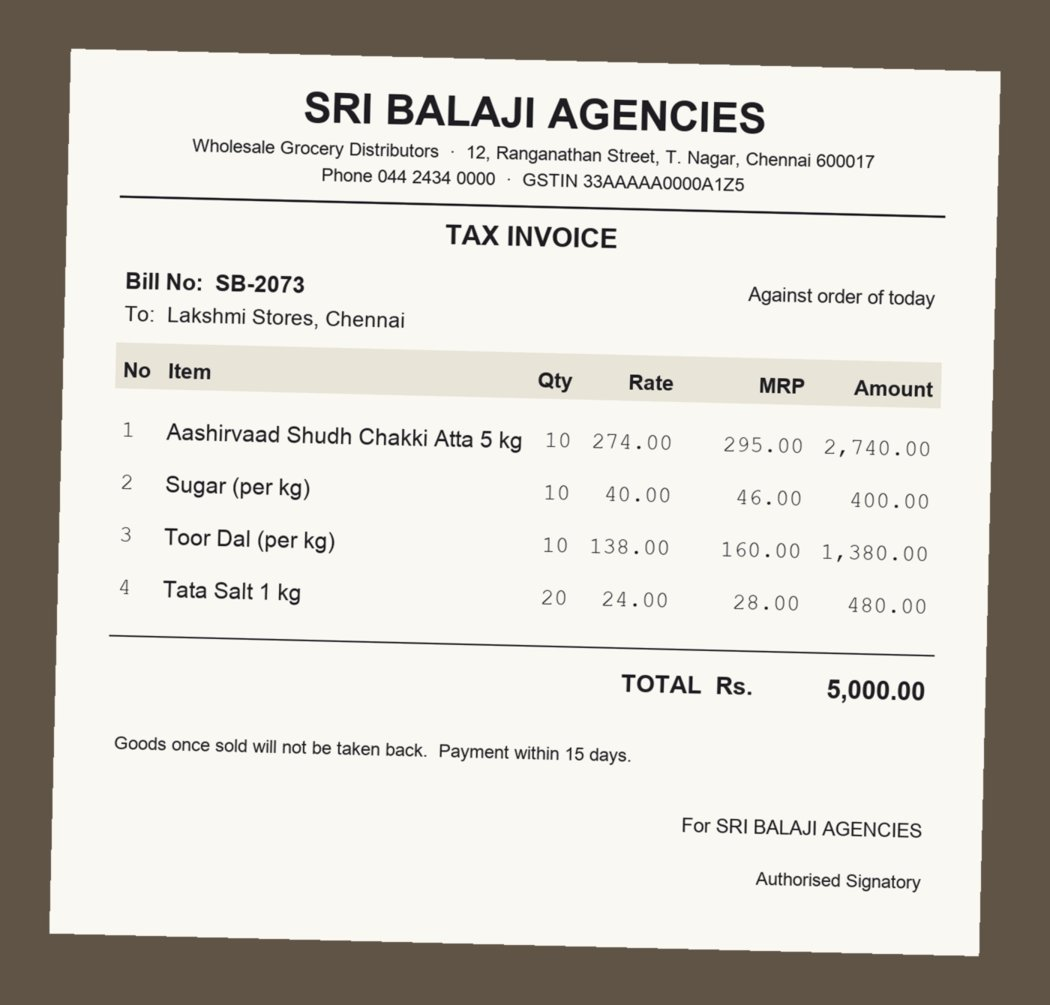
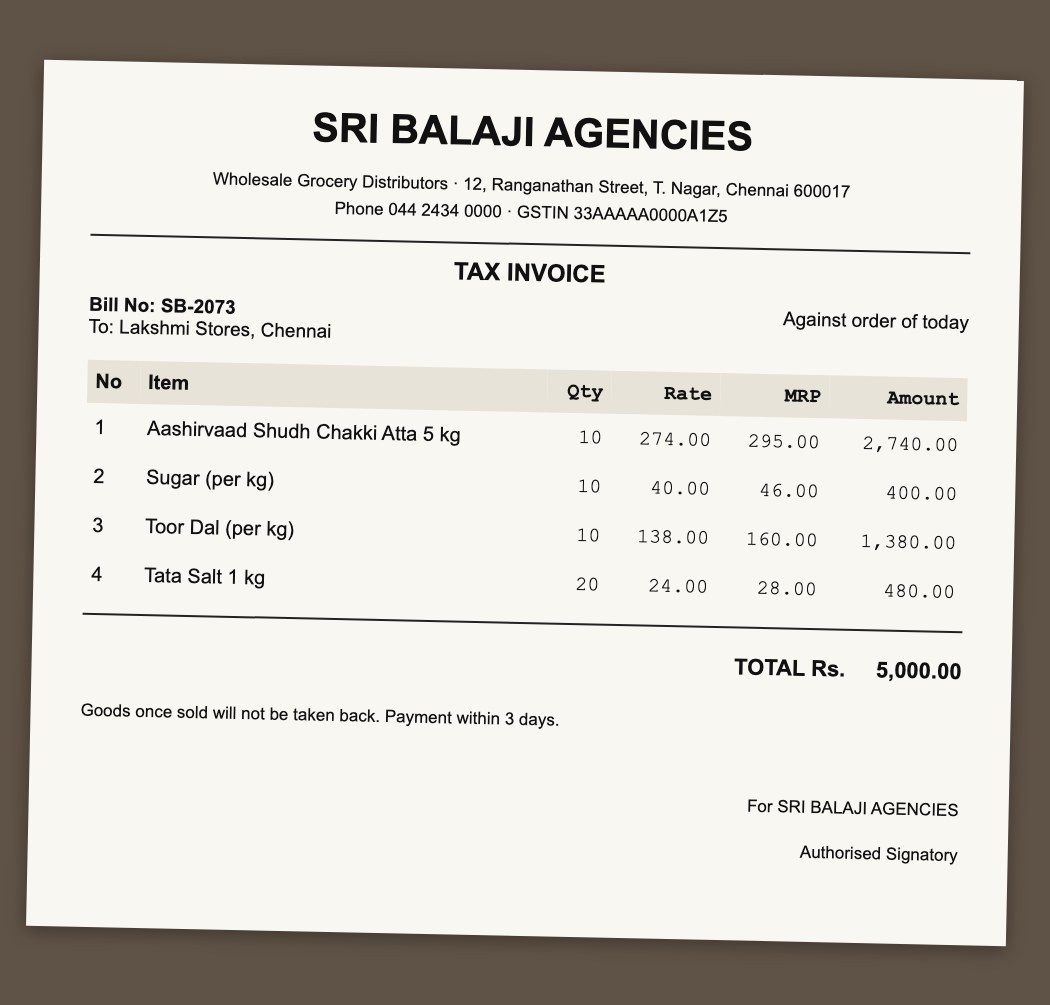
chore(fixtures): the Act 1 bill prints three days' credit
The stage bill photo now says "Payment within 3 days", so the payable
it creates is due in 3 days (spec section 11, Act 1). The bill is kept
as HTML with a Playwright script that renders the photo.

diff --git a/scripts/fixtures/delivery-bill-sb-2073.html b/scripts/fixtures/delivery-bill-sb-2073.html
@@ -1,0 +1,146 @@
+<!doctype html>
+<!-- Act 1's delivery bill (spec section 11). Rendered to the .jpg next to it by render-bill.ts. -->
+<html lang="en">
+  <head>
+    <meta charset="utf-8" />
+    <style>
+      body {
+        margin: 0;
+        width: 1050px;
+        height: 1005px;
+        background: #5f5246;
+        display: grid;
+        place-items: center;
+        font-family: Arial, Helvetica, sans-serif;
+        color: #111;
+      }
+      .bill {
+        width: 880px;
+        padding: 40px 50px 50px;
+        background: #f8f7f2;
+        transform: rotate(1.2deg);
+        box-shadow: 0 4px 18px rgb(0 0 0 / 0.35);
+      }
+      h1 {
+        margin: 0;
+        text-align: center;
+        font-size: 40px;
+      }
+      .sub {
+        text-align: center;
+        font-size: 17px;
+        line-height: 1.6;
+      }
+      hr {
+        border: 0;
+        border-top: 2px solid #222;
+        margin: 14px 0;
+      }
+      h2 {
+        text-align: center;
+        font-size: 24px;
+        margin: 10px 0 16px;
+      }
+      .meta {
+        display: flex;
+        justify-content: space-between;
+        font-size: 19px;
+      }
+      table {
+        width: 100%;
+        margin-top: 22px;
+        border-collapse: collapse;
+        font-size: 20px;
+      }
+      th {
+        background: #e7e3d8;
+        text-align: left;
+        padding: 10px 8px;
+      }
+      td {
+        padding: 13px 8px;
+      }
+      .num {
+        text-align: right;
+        font-family: "Courier New", monospace;
+      }
+      .total {
+        text-align: right;
+        font-size: 22px;
+        font-weight: bold;
+        margin-top: 26px;
+      }
+      .terms {
+        margin-top: 34px;
+        font-size: 17px;
+      }
+      .sign {
+        text-align: right;
+        margin-top: 50px;
+        font-size: 17px;
+        line-height: 2.6;
+      }
+    </style>
+  </head>
+  <body>
+    <div class="bill">
+      <h1>SRI BALAJI AGENCIES</h1>
+      <p class="sub">
+        Wholesale Grocery Distributors · 12, Ranganathan Street, T. Nagar, Chennai 600017<br />
+        Phone 044 2434 0000 · GSTIN 33AAAAA0000A1Z5
+      </p>
+      <hr />
+      <h2>TAX INVOICE</h2>
+      <div class="meta">
+        <span><b>Bill No: SB-2073</b><br />To: Lakshmi Stores, Chennai</span>
+        <span>Against order of today</span>
+      </div>
+      <table>
+        <tr>
+          <th>No</th>
+          <th>Item</th>
+          <th class="num">Qty</th>
+          <th class="num">Rate</th>
+          <th class="num">MRP</th>
+          <th class="num">Amount</th>
+        </tr>
+        <tr>
+          <td>1</td>
+          <td>Aashirvaad Shudh Chakki Atta 5 kg</td>
+          <td class="num">10</td>
+          <td class="num">274.00</td>
+          <td class="num">295.00</td>
+          <td class="num">2,740.00</td>
+        </tr>
+        <tr>
+          <td>2</td>
+          <td>Sugar (per kg)</td>
+          <td class="num">10</td>
+          <td class="num">40.00</td>
+          <td class="num">46.00</td>
+          <td class="num">400.00</td>
+        </tr>
+        <tr>
+          <td>3</td>
+          <td>Toor Dal (per kg)</td>
+          <td class="num">10</td>
+          <td class="num">138.00</td>
+          <td class="num">160.00</td>
+          <td class="num">1,380.00</td>
+        </tr>
+        <tr>
+          <td>4</td>
+          <td>Tata Salt 1 kg</td>
+          <td class="num">20</td>
+          <td class="num">24.00</td>
+          <td class="num">28.00</td>
+          <td class="num">480.00</td>
+        </tr>
+      </table>
+      <hr />
+      <p class="total">TOTAL Rs. &nbsp;&nbsp;&nbsp; 5,000.00</p>
+      <p class="terms">Goods once sold will not be taken back. Payment within 3 days.</p>
+      <p class="sign">For SRI BALAJI AGENCIES<br />Authorised Signatory</p>
+    </div>
+  </body>
+</html>

diff --git a/scripts/fixtures/render-bill.ts b/scripts/fixtures/render-bill.ts
@@ -1,0 +1,24 @@
+import path from "node:path";
+import { chromium } from "@playwright/test";
+
+// Renders Act 1's delivery bill from its HTML into the photo the stage fallback uses (spec 16.4):
+// pnpm exec tsx scripts/fixtures/render-bill.ts
+
+const here = path.dirname(new URL(import.meta.url).pathname);
+
+async function main() {
+  const browser = await chromium.launch();
+  const page = await browser.newPage({ viewport: { width: 1050, height: 1005 } });
+  await page.goto(`file://${path.join(here, "delivery-bill-sb-2073.html")}`);
+  await page.screenshot({
+    path: path.join(here, "delivery-bill-sb-2073.jpg"),
+    type: "jpeg",
+    quality: 88,
+  });
+  await browser.close();
+}
+
+main().catch((error: unknown) => {
+  console.error(error);
+  process.exit(1);
+});
